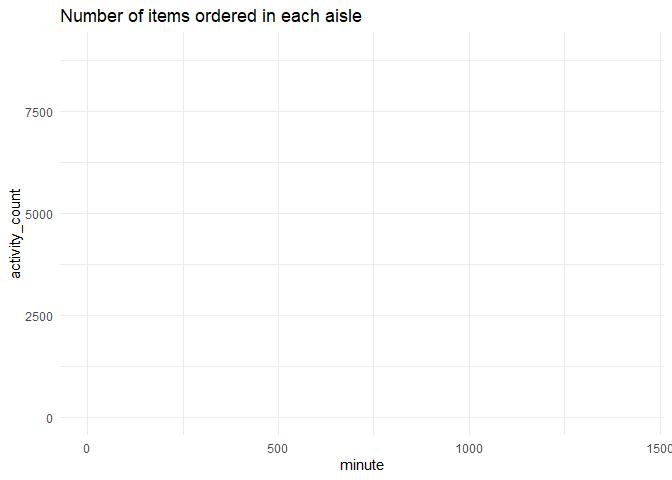
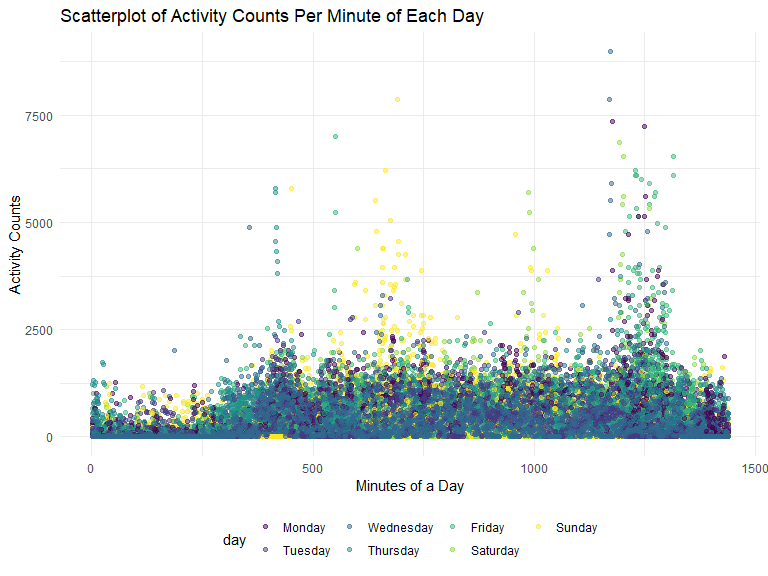
Added .png files and updated the code for problems 2 and 3 within the .Rmd and .md files.

diff --git a/p8105_hw3_jdv2118.md b/p8105_hw3_jdv2118.md
@@ -2,7 +2,7 @@ p8105_hw3_jdv2118
 ================
 Justin Vargas
 
-# Load Libraries
+# Loading libraries and settings for plots
 
 ``` r
 library(tidyverse)
@@ -31,7 +31,21 @@ library(janitor)
 ``` r
 library(knitr)
 
-theme_set(theme_minimal() + theme(legend.position = "bottom"))
+library(ggridges)
+
+library(patchwork)
+
+opts_chunk$set(
+    echo = TRUE,
+    warning = FALSE,
+    fig.width = 8, 
+  fig.height = 6,
+  out.width = "90%"
+)
+
+theme_set(
+  theme_minimal() + theme(legend.position = "bottom")
+  )
 
 options(
   ggplot2.continuous.colour = "viridis",
@@ -39,27 +53,27 @@ options(
 )
 
 scale_colour_discrete = scale_colour_viridis_d
+
 scale_fill_discrete = scale_fill_viridis_d
 ```
 
+# Problem 2
 
-    # Problem 2
-
-    ```r
-    accelerator_data = 
-      read_csv("data/accel_data.csv") %>%
-      clean_names() %>%
-      pivot_longer(
-      activity_1:activity_1440,
-        names_to = "minute",
-        values_to = "activity_count",
-        names_prefix = "activity_") %>%
-      #how do I fix the factor issue with the day of the week?
-      mutate(
-          day = factor(day, levels = c("Monday", "Tuesday", "Wednesday", "Thursday", "Friday", "Saturday", "Sunday")),
-        weekday_vs_weekend =
-        if_else(day %in% c("Saturday", "Sunday"), 'Weekend', 'Weekday'), 
-        minute = as.numeric(minute))
+``` r
+accelerometer_data = 
+  read_csv("data/accel_data.csv") %>%
+  clean_names() %>%
+  pivot_longer(
+  activity_1:activity_1440,
+    names_to = "minute",
+    values_to = "activity_count",
+    names_prefix = "activity_") %>%
+  mutate(
+      day = factor(day, levels = c("Monday", "Tuesday", "Wednesday", "Thursday", "Friday", "Saturday", "Sunday")),
+    weekday_vs_weekend =
+    if_else(day %in% c("Saturday", "Sunday"), 'Weekend', 'Weekday'), 
+    minute = as.numeric(minute))
+```
 
     ## Rows: 35 Columns: 1443
     ## ── Column specification ────────────────────────────────────────────────────────
@@ -71,31 +85,44 @@ scale_fill_discrete = scale_fill_viridis_d
     ## ℹ Specify the column types or set `show_col_types = FALSE` to quiet this message.
 
 ``` r
-head(accelerator_data)
+accelerometer_data
 ```
 
-    ## # A tibble: 6 × 6
-    ##    week day_id day    minute activity_count weekday_vs_weekend
-    ##   <dbl>  <dbl> <fct>   <dbl>          <dbl> <chr>             
-    ## 1     1      1 Friday      1           88.4 Weekday           
-    ## 2     1      1 Friday      2           82.2 Weekday           
-    ## 3     1      1 Friday      3           64.4 Weekday           
-    ## 4     1      1 Friday      4           70.0 Weekday           
-    ## 5     1      1 Friday      5           75.0 Weekday           
-    ## 6     1      1 Friday      6           66.3 Weekday
+    ## # A tibble: 50,400 × 6
+    ##     week day_id day    minute activity_count weekday_vs_weekend
+    ##    <dbl>  <dbl> <fct>   <dbl>          <dbl> <chr>             
+    ##  1     1      1 Friday      1           88.4 Weekday           
+    ##  2     1      1 Friday      2           82.2 Weekday           
+    ##  3     1      1 Friday      3           64.4 Weekday           
+    ##  4     1      1 Friday      4           70.0 Weekday           
+    ##  5     1      1 Friday      5           75.0 Weekday           
+    ##  6     1      1 Friday      6           66.3 Weekday           
+    ##  7     1      1 Friday      7           53.8 Weekday           
+    ##  8     1      1 Friday      8           47.8 Weekday           
+    ##  9     1      1 Friday      9           55.5 Weekday           
+    ## 10     1      1 Friday     10           43.0 Weekday           
+    ## # … with 50,390 more rows
 
-``` r
-view(accelerator_data)
-```
+The aforementioned dataset, which the data for has been tidied and
+wrangled, focuses on accelerometer data that was collected from a 63
+year-old male, who has a BMI of 25 and has been diagnosed with
+congestive heart failure. The dataset consists of 6 columns and 50400
+rows. The 6 variables within the dataset are “week”, “day_id”, “day”,
+“minute”, “activity_count”, and “weekday_vs_weekend”. There are 4
+variables in the dataset that have a double class and they are “week”,
+“day_id”, “minute”, and “activity_count”. The “day” variable is a factor
+data type and “weekday_vs_weekend” is a character data type. It is
+important to note that the “weekday_vs_weekend” variable was not part of
+the original dataset and was created once the data was tidied and
+wrangled to differentiate whether the day name in the “day” variable was
+either a weekday or a weekend.
 
 ``` r
 total_activity_table =  
-  #should the table be created using knitr and should the table have a separate name
-  accelerator_data %>%
+  accelerometer_data %>%
   group_by(week, day) %>%
-  #how do I fix the factor issue with day of the week?
   summarize(
-    total_activity = sum(activity_count, na.rm = TRUE)
+    total_activity = sum(activity_count, na.rm = TRUE) #Is the na.rm = TRUE necessary?
   ) %>%
   pivot_wider(
   names_from = "day",
@@ -108,13 +135,169 @@ clean_names()
     ## `.groups` argument.
 
 ``` r
-view(total_activity_table)
+total_activity_table
+```
+
+    ## # A tibble: 5 × 8
+    ## # Groups:   week [5]
+    ##    week  monday tuesday wednesday thursday  friday saturday sunday
+    ##   <dbl>   <dbl>   <dbl>     <dbl>    <dbl>   <dbl>    <dbl>  <dbl>
+    ## 1     1  78828. 307094.   340115.  355924. 480543.   376254 631105
+    ## 2     2 295431  423245    440962   474048  568839    607175 422018
+    ## 3     3 685910  381507    468869   371230  467420    382928 467052
+    ## 4     4 409450  319568    434460   340291  154049      1440 260617
+    ## 5     5 389080  367824    445366   549658  620860      1440 138421
+
+``` r
+ggplot(accelerometer_data, aes(x = minute, y = activity_count, color = day)) + 
+  geom_point(alpha = .5) +
+  labs(
+    x = "Minutes of a Day",
+    y = "Activity Counts",
+    title = "Scatterplot of Activity Counts Per Minute of Each Day"
+  )
+```
+
+<img src="p8105_hw3_jdv2118_files/figure-gfm/unnamed-chunk-4-1.png" width="90%" />
+
+# Problem 3
+
+``` r
+library(p8105.datasets)
+
+data("ny_noaa")
 ```
 
 ``` r
-ggplot(accelerator_data, aes(x = minute, y = activity_count, color = day)) + 
-  geom_point(aes(color = day)) %>%
-  labs(title = "Number of items ordered in each aisle")
+ny_noaa_tidy =
+  ny_noaa %>%
+separate(col = date,   into = c("year", "month", "day"), sep = "-") %>%
+mutate(
+   year = as.numeric(year),
+   month = as.numeric(month),
+   day = as.numeric(day),
+   tmax = as.numeric(tmax),
+   tmin = as.numeric(tmin),
+   tmax = tmax / 10,
+   tmin = tmin / 10,
+   prcp = prcp / 10
+)
+
+ny_noaa_tidy
 ```
 
-![](p8105_hw3_jdv2118_files/figure-gfm/unnamed-chunk-4-1.png)<!-- -->
+    ## # A tibble: 2,595,176 × 9
+    ##    id           year month   day  prcp  snow  snwd  tmax  tmin
+    ##    <chr>       <dbl> <dbl> <dbl> <dbl> <int> <int> <dbl> <dbl>
+    ##  1 US1NYAB0001  2007    11     1    NA    NA    NA    NA    NA
+    ##  2 US1NYAB0001  2007    11     2    NA    NA    NA    NA    NA
+    ##  3 US1NYAB0001  2007    11     3    NA    NA    NA    NA    NA
+    ##  4 US1NYAB0001  2007    11     4    NA    NA    NA    NA    NA
+    ##  5 US1NYAB0001  2007    11     5    NA    NA    NA    NA    NA
+    ##  6 US1NYAB0001  2007    11     6    NA    NA    NA    NA    NA
+    ##  7 US1NYAB0001  2007    11     7    NA    NA    NA    NA    NA
+    ##  8 US1NYAB0001  2007    11     8    NA    NA    NA    NA    NA
+    ##  9 US1NYAB0001  2007    11     9    NA    NA    NA    NA    NA
+    ## 10 US1NYAB0001  2007    11    10    NA    NA    NA    NA    NA
+    ## # … with 2,595,166 more rows
+
+``` r
+ny_noaa_snow = 
+  ny_noaa_tidy %>%
+  count(snow) %>%
+  arrange(desc(n))
+
+ny_noaa_snow
+```
+
+    ## # A tibble: 282 × 2
+    ##     snow       n
+    ##    <int>   <int>
+    ##  1     0 2008508
+    ##  2    NA  381221
+    ##  3    25   31022
+    ##  4    13   23095
+    ##  5    51   18274
+    ##  6    76   10173
+    ##  7     8    9962
+    ##  8     5    9748
+    ##  9    38    9197
+    ## 10     3    8790
+    ## # … with 272 more rows
+
+``` r
+  ny_noaa_tidy %>% 
+  group_by(id, year, month) %>%
+  filter(
+    month %in% c("1", "7")
+  ) %>% 
+  summarize(
+    average_tmax = mean(tmax, na.rm = TRUE)
+  ) %>%
+  ggplot(aes(x = year, y = average_tmax, group = id)) +
+  geom_line(alpha = 0.5) +
+  labs(
+    x = "Year",
+    y = "Average Maximum Temperature (C)",
+    title = "Average Maximum Temperature vs. year by weather station in January and July",
+  ) +
+  facet_grid(. ~ month)
+```
+
+    ## `summarise()` has grouped output by 'id', 'year'. You can override using the
+    ## `.groups` argument.
+
+<img src="p8105_hw3_jdv2118_files/figure-gfm/unnamed-chunk-8-1.png" width="90%" />
+
+``` r
+outliers =
+ny_noaa_tidy %>% 
+  group_by(id, year, month) %>%
+  filter(
+    month %in% c("1", "7")
+  ) %>% 
+  summarize(
+    average_tmax = mean(tmax, na.rm = TRUE)
+  )
+```
+
+    ## `summarise()` has grouped output by 'id', 'year'. You can override using the
+    ## `.groups` argument.
+
+``` r
+summary(pull(outliers, average_tmax))
+```
+
+    ##    Min. 1st Qu.  Median    Mean 3rd Qu.    Max.    NA's 
+    ## -13.439  -0.217   8.635  13.312  27.003  33.600    5970
+
+``` r
+tmax_and_tmin =
+ny_noaa_tidy %>% 
+ggplot(aes(x = tmin, y = tmax)) +
+  geom_hex() +
+    labs(
+    x = "Minimum Temperature (C)",
+    y = "Maximum Temperature (C)",
+    title = "Maximum Vs Minimum Temperatures"
+    ) + 
+  theme(legend.position = "bottom", text = element_text(size = 7))
+
+
+snowfall_distribution =
+  ny_noaa_tidy %>% 
+  filter(snow > 0 & snow < 100) %>%
+  ggplot(aes(x = year, y = factor(snow))) +
+  geom_density_ridges() +
+  labs(
+    x = "Year",
+    y = "Snowfall (mm)",
+    title = "Snowfall Values by Year"
+    ) 
+
+tmax_and_tmin / snowfall_distribution
+```
+
+    ## Picking joint bandwidth of 1.9
+
+<img src="p8105_hw3_jdv2118_files/figure-gfm/unnamed-chunk-10-1.png" width="90%" />
